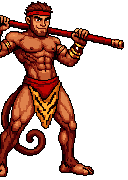
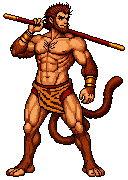
Redraw kai and wanorn sprites to match their love-scene designs
Claude-Session: https://claude.ai/code/session_01VCzUnoAUkKZrLg4uFbhBUz

diff --git a/web/index.html b/web/index.html
@@ -1450,11 +1450,11 @@ const ART = {
   jim: { A: 'art/jim_A.png', A1: 'art/jim_A1.png', B: 'art/jim_B.png', c1: 'art/jim_c1.png', c0: 'art/jim_c0.png',
     w: 128, h: 180, t: {s: 0.95, x: 4.4, y: -23.8}, pec: [55, 40, 26, 9], belly: [55, 62, 16, 9], head: [55, 15, 10, 11], crotch: [55, 88, 14, 7] },
   kai: { A: 'art/kai_A.png', A1: 'art/kai_A1.png', B: 'art/kai_B.png', c1: 'art/kai_c1.png', c0: 'art/kai_c0.png',
-    w: 128, h: 180, t: {s: 0.95, x: -3.2, y: -40.0}, pec: [62, 50, 20, 8], belly: [62, 67, 13, 8], head: [62, 27, 9, 10], crotch: [60, 86, 12, 6] },
+    w: 128, h: 180, t: {s: 0.95, x: -3.2, y: -20.9}, pec: [60, 45, 24, 9], belly: [60, 65, 15, 9], head: [60, 20, 10, 11], crotch: [60, 88, 14, 7] },
   gilga: { A: 'art/gilga_A.png', A1: 'art/gilga_A1.png', B: 'art/gilga_B.png', c1: 'art/gilga_c1.png', c0: 'art/gilga_c0.png',
     w: 128, h: 180, t: {s: 0.95, x: -7.0, y: -21.9}, pec: [61, 52, 24, 9], belly: [61, 68, 15, 8], head: [57, 20, 10, 11], crotch: [61, 93, 14, 8] },
   wanorn: { A: 'art/wanorn_A.png', A1: 'art/wanorn_A1.png', B: 'art/wanorn_B.png', c1: 'art/wanorn_c1.png', c0: 'art/wanorn_c0.png',
-    w: 128, h: 180, t: {s: 0.95, x: 7.2, y: -21.9}, pec: [40, 47, 22, 8], belly: [40, 63, 14, 8], head: [40, 20, 10, 11], crotch: [43, 86, 12, 7] },
+    w: 128, h: 180, t: {s: 0.95, x: -6.0, y: -21.9}, pec: [55, 45, 24, 9], belly: [57, 65, 15, 9], head: [59, 23, 10, 11], crotch: [57, 88, 14, 7] },
   rocco: { A: 'art/rocco_A.png', A1: 'art/rocco_A1.png', B: 'art/rocco_B.png', c1: 'art/rocco_c1.png', c0: 'art/rocco_c0.png',
     w: 128, h: 180, t: {s: 0.95, x: -3.7, y: -23.8}, pec: [69, 47, 22, 8], belly: [69, 66, 14, 8], head: [69, 15, 10, 11], crotch: [65, 91, 14, 7] },
   axel: { A: 'art/axel_A.png', A1: 'art/axel_A1.png', B: 'art/axel_B.png', c1: 'art/axel_c1.png', c0: 'art/axel_c0.png',

diff --git a/art/build_art.py b/art/build_art.py
@@ -79,11 +79,11 @@ CHARS = {
   'bruno':  ('chars/bruno_A_0.png', 'chars/bruno_A1_0.png', 'chars/bruno_B2_0.png'),
   'barbo':  ('chars/barbo_A_0.png', 'chars/barbo_A1_0.png', 'chars/barbo_B2_0.png'),
   'toro':   ('chars/toro_A_0.png', 'chars/toro_A1_0.png', 'chars/toro_B3_0.png'),
-  'wanorn': ('chars/wanorn_AF_0.png', 'chars/wanorn_A1F_0.png', 'chars/wanorn_BF_0.png'),
+  'wanorn': ('chars/wanorn2_A_0.png', 'chars/wanorn2_A1_0.png', 'chars/wanorn2_B2_0.png'),
   'rocco':  ('chars/rocco_A_0.png', 'chars/rocco_A1_0.png', 'chars/rocco_B2_0.png'),
   'axel':   ('chars/axel_AF_0.png', 'chars/axel_A1F_0.png', 'chars/axel_B3F_0.png'),
   'jim':    ('chars/jim_A_0.png', 'chars/jim_A1_0.png', 'chars/jim_B2_0.png'),
-  'kai':    ('chars/kai_AF_0.png', 'chars/kai_A1F_0.png', 'chars/kai_BF_0.png'),
+  'kai':    ('chars/kai2_A_0.png', 'chars/kai2_A1_0.png', 'chars/kai2_B2_0.png'),
   'gilga':  ('chars/gilga_A_0.png', 'chars/gilga_A1_0.png', 'chars/gilga_B_0.png'),
   'rex':    ('chars/rex_A_0.png', 'chars/rex_A1_0.png', 'chars/rex_B_0.png'),
   'chai':   ('chars/chai_A_0.png', 'chars/chai_A1_0.png', 'chars/chai_B_0.png'),
